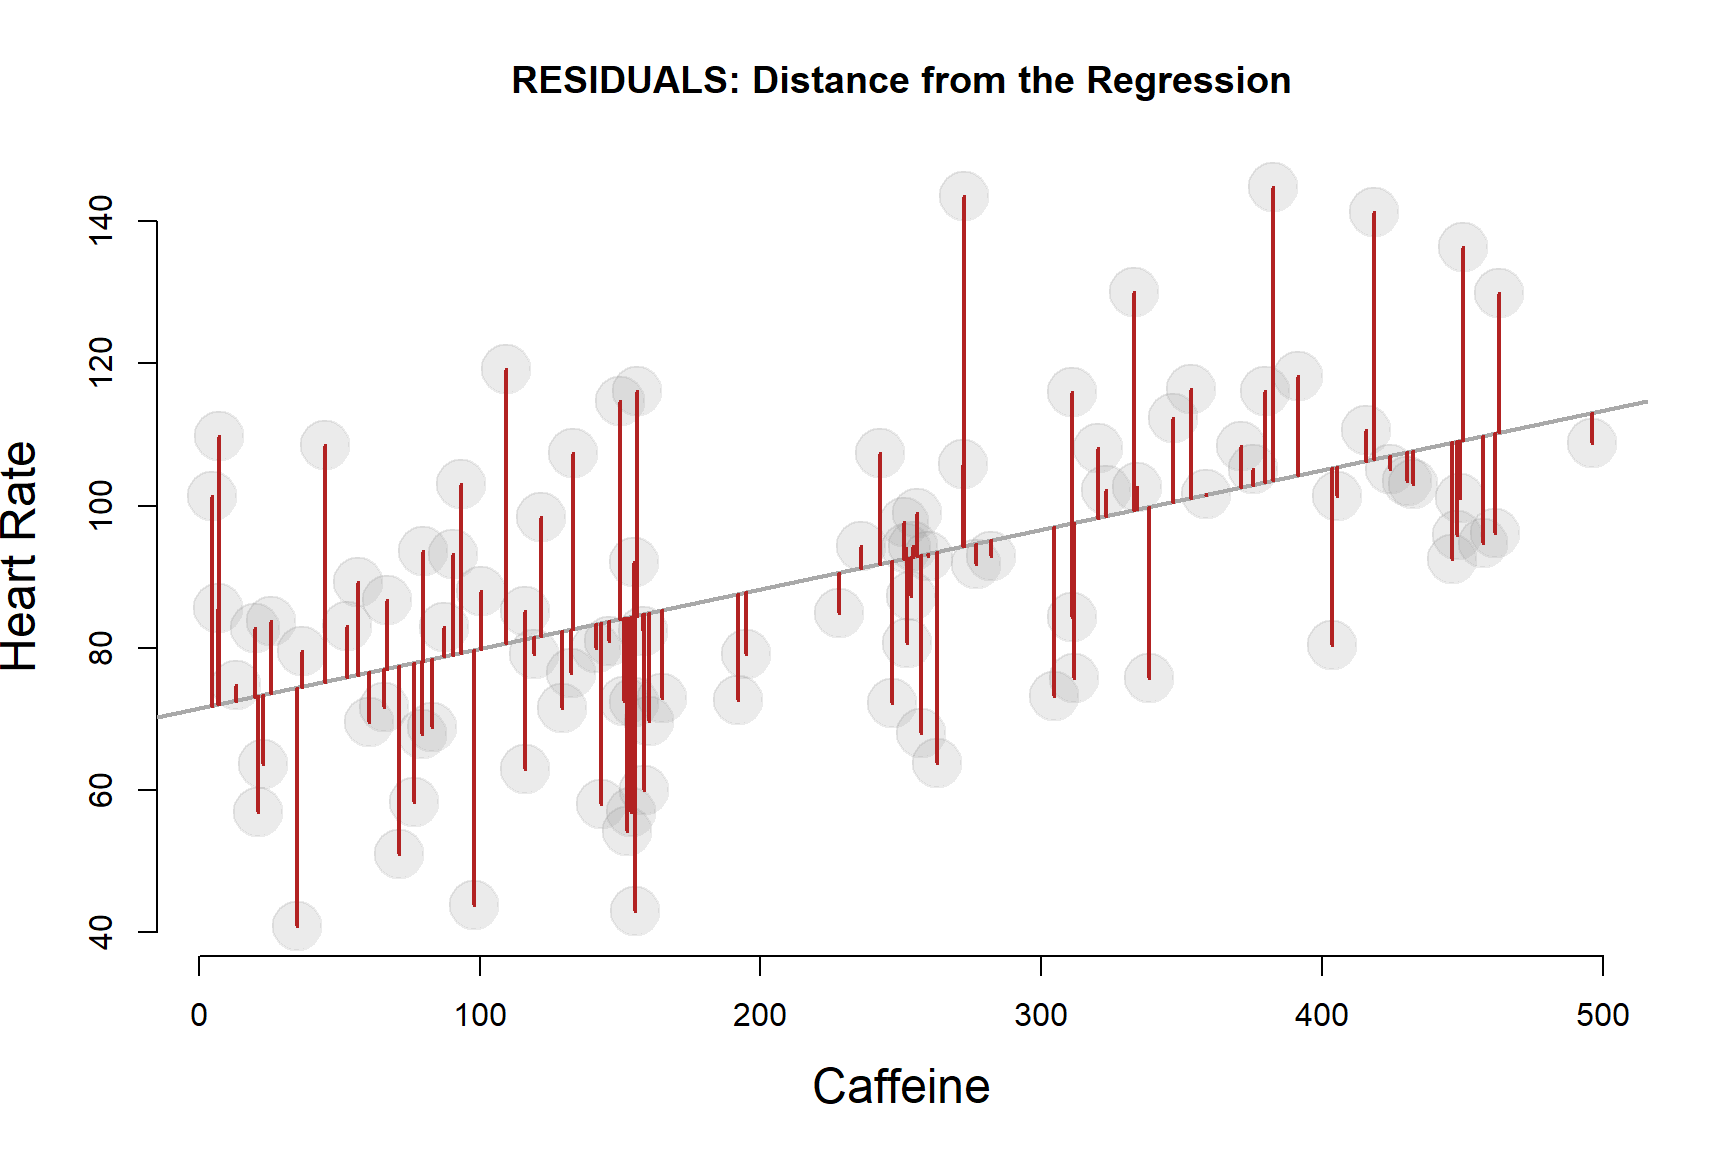
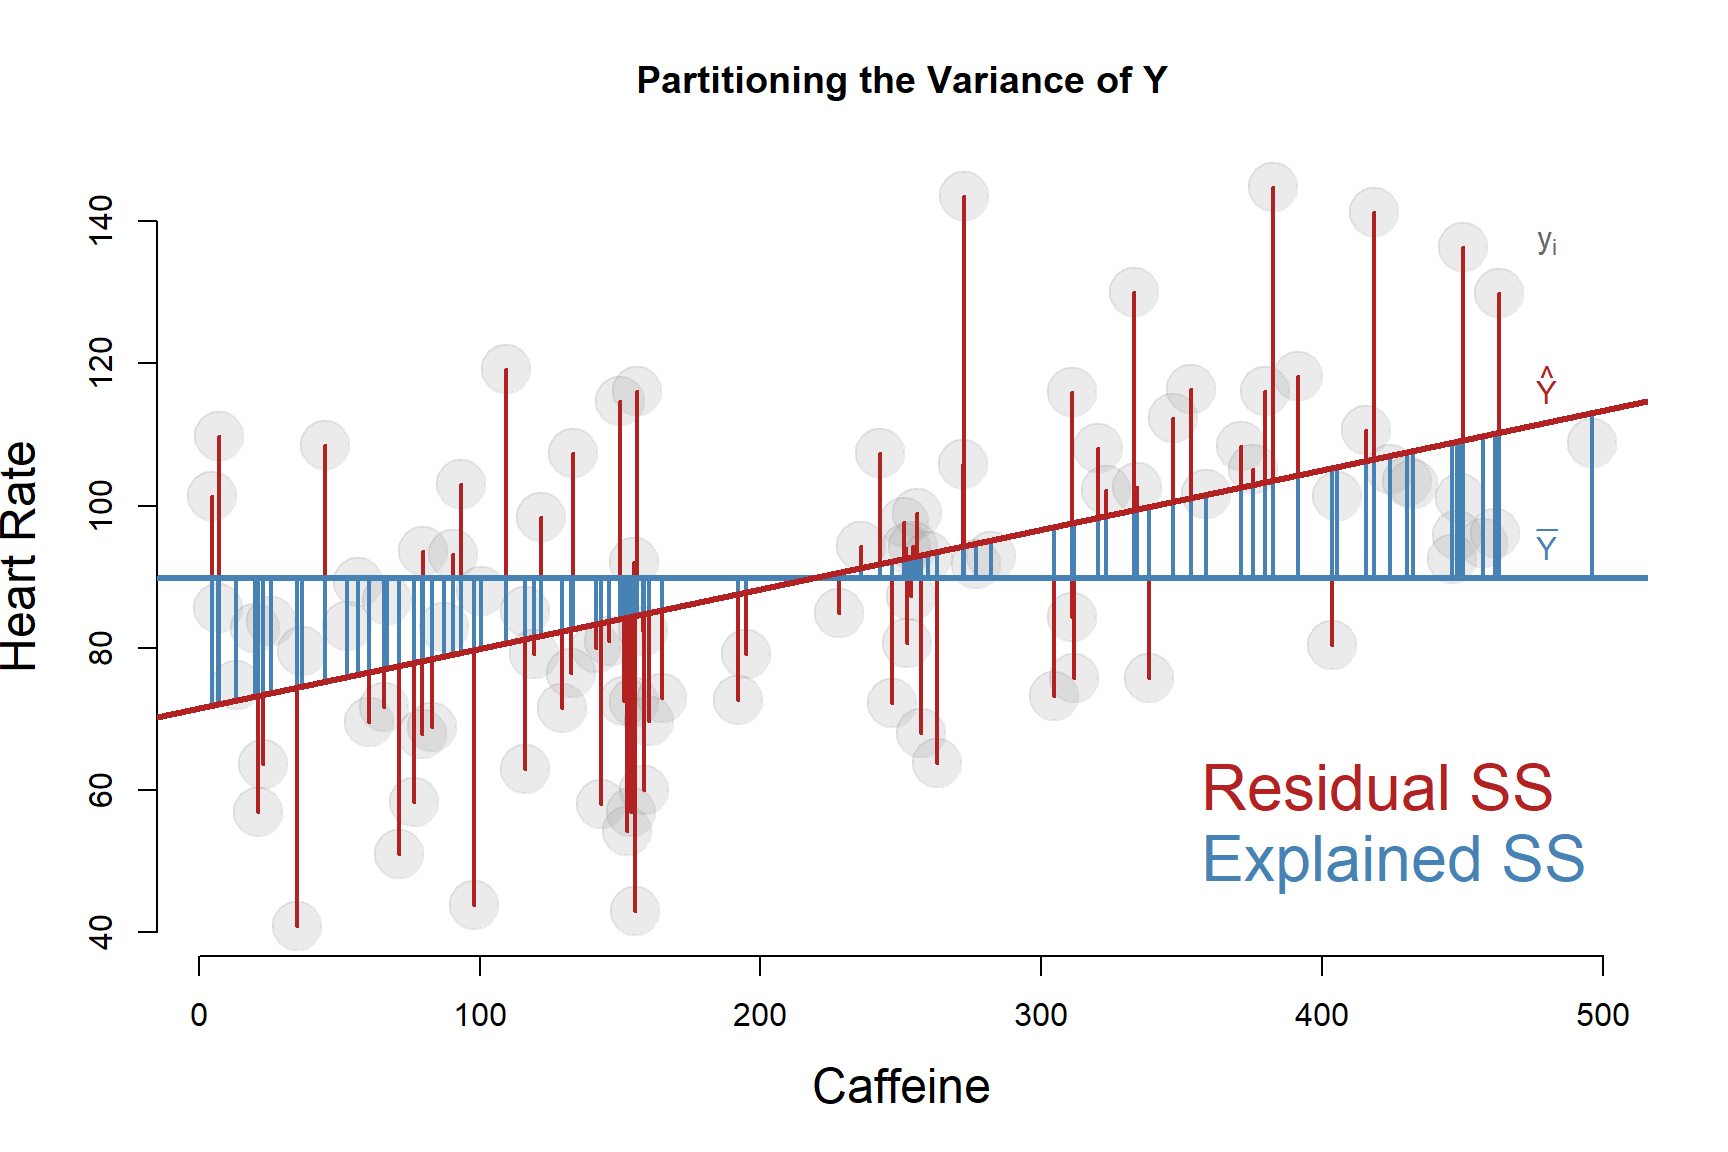
update-01

diff --git a/lectures/caffeine.html b/lectures/caffeine.html
@@ -275,10 +275,10 @@ The models give us a guess for what the heart rate will be for subjects within a
 ave.caffeine
 </td>
 <td>
-ave.heart
+round.ave.heart..0.
 </td>
 <td>
-predicted.heart
+round.predicted.heart..0.
 </td>
 </tr>
 <tr>
@@ -293,10 +293,10 @@ predicted.heart
 25
 </td>
 <td>
-80.703
+81
 </td>
 <td>
-73.565
+74
 </td>
 </tr>
 <tr>
@@ -307,10 +307,10 @@ predicted.heart
 75
 </td>
 <td>
-75.926
+76
 </td>
 <td>
-77.756
+78
 </td>
 </tr>
 <tr>
@@ -321,10 +321,10 @@ predicted.heart
 125
 </td>
 <td>
-83.979
+84
 </td>
 <td>
-81.947
+82
 </td>
 </tr>
 <tr>
@@ -335,10 +335,10 @@ predicted.heart
 175
 </td>
 <td>
-75.655
+76
 </td>
 <td>
-86.138
+86
 </td>
 </tr>
 <tr>
@@ -349,10 +349,10 @@ predicted.heart
 225
 </td>
 <td>
-89.738
+90
 </td>
 <td>
-90.329
+90
 </td>
 </tr>
 <tr>
@@ -363,10 +363,10 @@ predicted.heart
 275
 </td>
 <td>
-93.221
+93
 </td>
 <td>
-94.520
+95
 </td>
 </tr>
 <tr>
@@ -377,10 +377,10 @@ predicted.heart
 325
 </td>
 <td>
-98.045
+98
 </td>
 <td>
-98.711
+99
 </td>
 </tr>
 <tr>
@@ -391,10 +391,10 @@ predicted.heart
 375
 </td>
 <td>
-115.826
+116
 </td>
 <td>
-102.902
+103
 </td>
 </tr>
 <tr>
@@ -405,10 +405,10 @@ predicted.heart
 425
 </td>
 <td>
-103.480
+103
 </td>
 <td>
-107.093
+107
 </td>
 </tr>
 <tr>
@@ -419,10 +419,10 @@ predicted.heart
 475
 </td>
 <td>
-113.210
+113
 </td>
 <td>
-111.284
+111
 </td>
 </tr>
 <tr>
@@ -448,6 +448,8 @@ predicted.heart
 <p>The strength of our regression model is to some extend a measure of how much our prediction of the true value of Y for an individual improves over simply using the population mean.</p>
 <p><img src="caffeine_files/figure-html/unnamed-chunk-10-1.png" width="864" /></p>
 <p>When we cover hypothesis testing, we will see that the null hypothesis in regression models is actually just that we can’t improve our predictions about Y by using information on X. Using the population mean of Y to predict the outcome is just as good as using the regression model.</p>
+<p>The quality of the regression is a function of the strength of the relationship between X and Y in the data. If the correlation is weak, i.e. close to zero, then the regression will not do any better than just using the mean of Y as the best guess for where a random data point will fall.</p>
+<p>If the correlation is strong, the regression provides a lot of information relative to just using the population mean. We will have more accurate predictions using the conditional mean (relative to X) rather than just the mean of Y.</p>
 <center>
 <strong>Does the regression do a better job than the mean at predicting Y?</strong>
 </center>
@@ -797,7 +799,7 @@ Residual Std. Error
 <p>Recall again the variance formula:</p>
 <p><span class="math inline">\(var(y) = \frac{ \sum{ (y_i - \bar{y})^2 } } { (n-1) }\)</span></p>
 <p>The reason we cannot measure variance use the average of the deviations (a more intuitive measure) is the deviations <span class="math inline">\(y_i - \bar{y}\)</span> are distances to the mean, and because the mean is the exact center of gravity of the data the sum of the deviations will mathematically always be zero.</p>
-<p>Since squaring terms ensures they are always positive, the quickest fix to this problem is to use the sum of squared deviations.</p>
+<p>Since squaring terms ensures they are always positive, the quickest fix to this problem is to use the sum of squared deviations <span class="math inline">\((y_i - \bar{y})^2\)</span>.</p>
 <p><br></p>
 <p><img src="https://media0.giphy.com/media/oEnlkgqdspU1a/giphy.gif" /></p>
 <center>
@@ -833,24 +835,32 @@ Lebron James finding the average of the basketball.
 <h2><span class="header-section-number">4.2</span> Tabulating Sums of Square Deviations</h2>
 <p>In order to see how we are able to divide the variance into an explained portion and an unexplained portion we need a trick:</p>
 <p><strong>Note that A - B + B - C is the same as A - C.</strong></p>
+<blockquote>
+<p><strong>A - C = A - C</strong></p>
+<p><strong>A - B + B - C = A - C</strong></p>
+<p><strong>(A-B) + (B-C) = A - C</strong></p>
+</blockquote>
 <p>Now take a look at the equations to calculate SUMS OF SQUARES:</p>
 <p>TOTAL SS = <span class="math inline">\(\sum{ (y_i - \bar{y})^2 }\)</span></p>
 <p>RESIDUAL SS = <span class="math inline">\(\sum{ (y_i - \hat{y})^2 }\)</span></p>
 <p>EXPLAINED SS = <span class="math inline">\(\sum{ ( \hat{y} - \bar{y})^2 }\)</span></p>
 <p>Recall that <span class="math inline">\(\hat{y}\)</span> represents the predicted values of Y, which is another way of saying the regression line. So what we are doing here is inserting the regression line between the mean of Y and the observed values of Y.</p>
-<p>Now note the pattern here and the role the regression line (<span class="math inline">\(\hat{y}\)</span>) serves:</p>
+<p>The trick to partitioning the variance is to split the deviation <span class="math inline">\((y_i - \bar{y})\)</span> into two parts by inserting a point in the middle:</p>
+<p><img src="caffeine_files/figure-html/unnamed-chunk-24-1.png" width="384" /></p>
+<p>The regression line (<span class="math inline">\(\hat{y}\)</span>) serves the same role as B:</p>
 <p>A - B + B - C = A - C</p>
 <blockquote>
 <p><span class="math inline">\(y_i - \hat{y} + \hat{y} - \bar{y} = y_i - \bar{y}\)</span></p>
 <p><span class="math inline">\((y_i - \hat{y}) + (\hat{y} - \bar{y}) = y_i - \bar{y}\)</span></p>
 <p><span class="math inline">\((RSS) + (ESS) = TOTAL \ SS\)</span></p>
 </blockquote>
+<p>Ultimately this trick allows us to split the variance into explained (ESS) and unxplained residual (RSS) components.</p>
 <div id="explained-variance" class="section level3">
 <h3><span class="header-section-number">4.2.1</span> Explained Variance</h3>
 <p>The statement above is the same as saying the TOTAL VARIANCE of Y can be decomposed into an EXPLAINED portion of the variance and an UNEXPLAINED portion of the variance.</p>
 <p>Thus <span class="math inline">\(R^2 = Regression \ SS / Total SS\)</span>, or <span class="math inline">\(R^2\)</span> is measuring the explained portion of the variance of the dependent variable in the model.</p>
 <p>Visually it would look something like this:</p>
-<p><img src="caffeine_files/figure-html/unnamed-chunk-24-1.png" width="864" /></p>
+<p><img src="caffeine_files/figure-html/unnamed-chunk-25-1.png" width="864" /></p>
 <center>
 This models has an <span class="math inline">\(R^2\)</span> of 0.282, so the blue segments account for about 28% of the residuals.
 </center>
@@ -1030,7 +1040,7 @@ Residual Std. Error
 </td>
 </tr>
 </table>
-<p><img src="caffeine_files/figure-html/unnamed-chunk-28-1.png" width="864" /></p>
+<p><img src="caffeine_files/figure-html/unnamed-chunk-29-1.png" width="864" /></p>
 <p><br></p>
 <div class="tip">
 <p><br></p>
